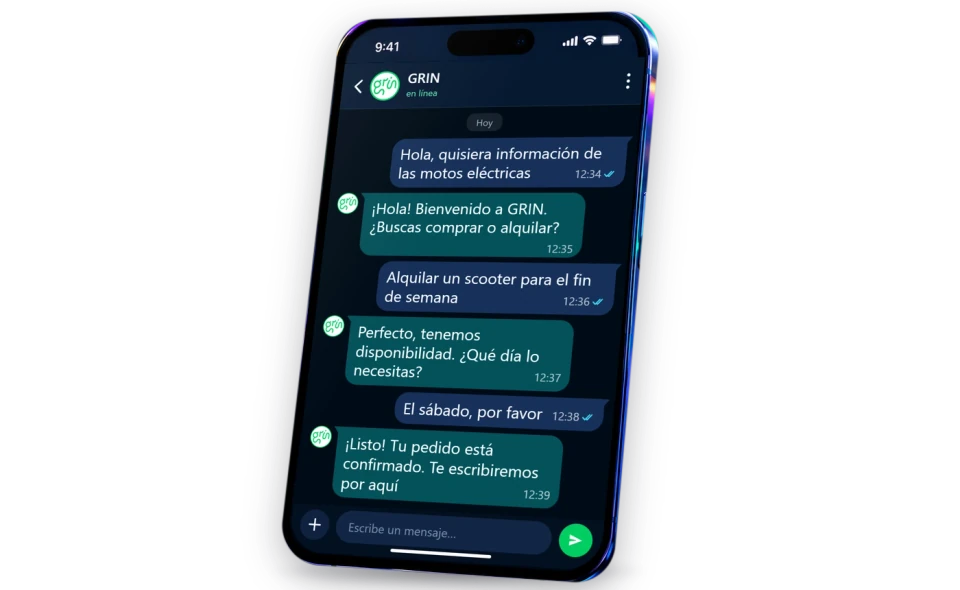
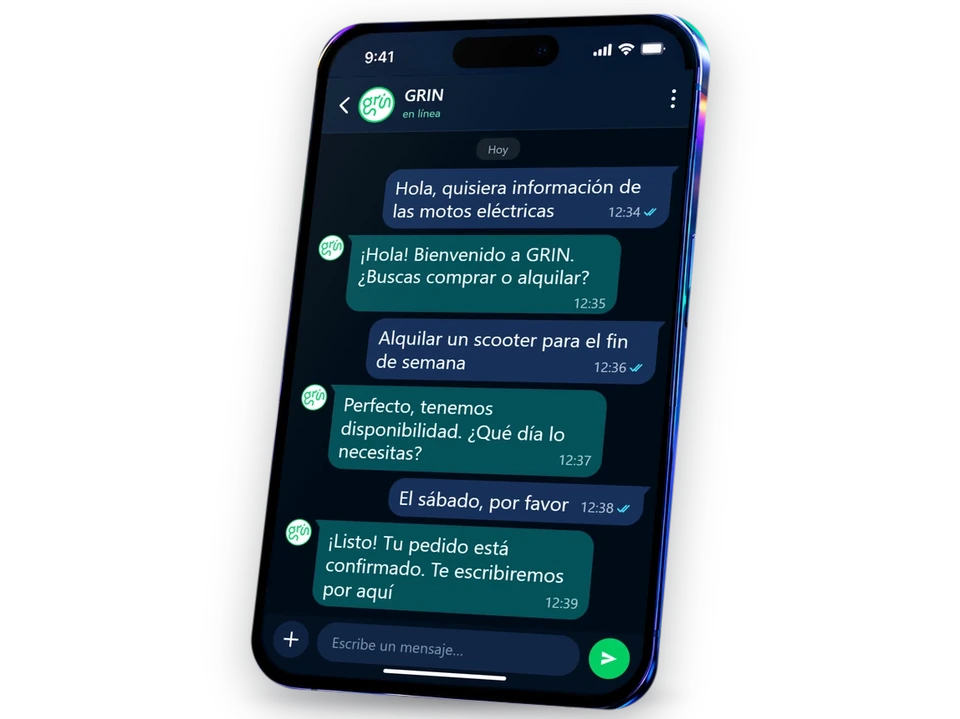
mejoras diseño y seccion de comentarios

diff --git a/src/app/features/cases/case-studies/cases.data.ts b/src/app/features/cases/case-studies/cases.data.ts
@@ -69,17 +69,17 @@ export const CASES: WorkflowCase[] = [
     cutout: {
       phone: '/cases/cutout/grin-phone.webp',
       alt: 'Conversación de WhatsApp con respuestas automáticas y un pedido confirmado en GRIN',
-      width: 1400,
+      width: 1148,
       height: 860,
       cards: [
-        { x: 20, y: 90, w: 340, h: 140, icon: 'lucideMessageCircle', label: 'Mensaje recibido' },
-        { x: 1020, y: 192, w: 340, h: 140, icon: 'lucideFileText', label: 'Pedido registrado' },
-        { x: 1020, y: 472, w: 340, h: 140, icon: 'lucideTrendingUp', label: 'Seguimiento activo' },
+        { x: 2, y: 103, w: 275, h: 115, icon: 'lucideMessageCircle', label: 'Mensaje recibido' },
+        { x: 871, y: 205, w: 275, h: 115, icon: 'lucideFileText', label: 'Pedido registrado' },
+        { x: 871, y: 485, w: 275, h: 115, icon: 'lucideTrendingUp', label: 'Seguimiento activo' },
       ],
       lines: [
-        { from: [360, 160], c1: [415, 160], c2: [430, 215], to: [480, 222] },
-        { from: [1020, 262], c1: [990, 262], c2: [975, 260], to: [942, 256] },
-        { from: [1020, 542], c1: [980, 542], c2: [960, 556], to: [918, 558] },
+        { from: [275, 160], c1: [289, 160], c2: [319, 215], to: [369, 222] },
+        { from: [873, 262], c1: [859, 262], c2: [864, 260], to: [831, 256] },
+        { from: [873, 542], c1: [859, 542], c2: [849, 556], to: [807, 558] },
       ],
     },
     resultAlt: 'Conversación de WhatsApp con respuestas automáticas y un pedido confirmado en GRIN',
@@ -113,17 +113,17 @@ export const CASES: WorkflowCase[] = [
     cutout: {
       phone: '/cases/cutout/opcion-phone.webp',
       alt: 'Conversación de WhatsApp con una cotización de fondo colectivo y el cálculo de la cuota en OPCIÓN',
-      width: 1400,
+      width: 1148,
       height: 860,
       cards: [
-        { x: 20, y: 90, w: 340, h: 140, icon: 'lucideMessageCircle', label: 'Mensaje recibido' },
-        { x: 1020, y: 192, w: 340, h: 140, icon: 'lucideFileText', label: 'Cotización enviada' },
-        { x: 1020, y: 472, w: 340, h: 140, icon: 'lucideUser', label: 'Cliente registrado' },
+        { x: 2, y: 103, w: 275, h: 115, icon: 'lucideMessageCircle', label: 'Mensaje recibido' },
+        { x: 871, y: 205, w: 275, h: 115, icon: 'lucideFileText', label: 'Cotización enviada' },
+        { x: 871, y: 485, w: 275, h: 115, icon: 'lucideUser', label: 'Cliente registrado' },
       ],
       lines: [
-        { from: [360, 160], c1: [415, 160], c2: [443, 215], to: [493, 222] },
-        { from: [1020, 262], c1: [990, 262], c2: [967, 260], to: [934, 256] },
-        { from: [1020, 542], c1: [980, 542], c2: [954, 556], to: [912, 558] },
+        { from: [275, 160], c1: [289, 160], c2: [329, 215], to: [379, 222] },
+        { from: [873, 262], c1: [859, 262], c2: [853, 260], to: [820, 256] },
+        { from: [873, 542], c1: [859, 542], c2: [840, 556], to: [798, 558] },
       ],
     },
     about: 'Fondos colectivos para inmuebles, vehículos y equipos',
@@ -155,17 +155,17 @@ export const CASES: WorkflowCase[] = [
     cutout: {
       phone: '/cases/cutout/tis-phone.webp',
       alt: 'Conversación de WhatsApp que califica a un prospecto y agenda una clase de prueba en TIS',
-      width: 1400,
+      width: 1148,
       height: 860,
       cards: [
-        { x: 20, y: 90, w: 340, h: 140, icon: 'lucideMessageCircle', label: 'Mensaje recibido' },
-        { x: 1020, y: 192, w: 340, h: 140, icon: 'lucideCalendarCheck', label: 'Clase agendada' },
-        { x: 1020, y: 472, w: 340, h: 140, icon: 'lucideTrendingUp', label: 'Seguimiento activo' },
+        { x: 2, y: 103, w: 275, h: 115, icon: 'lucideMessageCircle', label: 'Mensaje recibido' },
+        { x: 871, y: 205, w: 275, h: 115, icon: 'lucideCalendarCheck', label: 'Clase agendada' },
+        { x: 871, y: 485, w: 275, h: 115, icon: 'lucideTrendingUp', label: 'Seguimiento activo' },
       ],
       lines: [
-        { from: [360, 160], c1: [415, 160], c2: [447, 215], to: [497, 222] },
-        { from: [1020, 262], c1: [990, 262], c2: [964, 260], to: [931, 256] },
-        { from: [1020, 542], c1: [980, 542], c2: [951, 556], to: [909, 558] },
+        { from: [275, 160], c1: [289, 160], c2: [336, 215], to: [386, 222] },
+        { from: [873, 262], c1: [859, 262], c2: [853, 260], to: [820, 256] },
+        { from: [873, 542], c1: [859, 542], c2: [840, 556], to: [798, 558] },
       ],
     },
     about: 'Escuela de taekwondo en Lima',
@@ -197,17 +197,17 @@ export const CASES: WorkflowCase[] = [
     cutout: {
       phone: '/cases/cutout/peruviansecom-phone.webp',
       alt: 'Conversación de WhatsApp con el resumen y la confirmación de un pedido en PeruviansEcom',
-      width: 1400,
+      width: 1148,
       height: 860,
       cards: [
-        { x: 20, y: 90, w: 340, h: 140, icon: 'lucideMessageCircle', label: 'Mensaje recibido' },
-        { x: 1020, y: 192, w: 340, h: 140, icon: 'lucideFileText', label: 'Pedido registrado' },
-        { x: 1020, y: 472, w: 340, h: 140, icon: 'lucideTruck', label: 'Seguimiento de envío' },
+        { x: 2, y: 103, w: 275, h: 115, icon: 'lucideMessageCircle', label: 'Mensaje recibido' },
+        { x: 871, y: 205, w: 275, h: 115, icon: 'lucideFileText', label: 'Pedido registrado' },
+        { x: 871, y: 485, w: 275, h: 115, icon: 'lucideTruck', label: 'Seguimiento de envío' },
       ],
       lines: [
-        { from: [360, 160], c1: [415, 160], c2: [444, 215], to: [494, 222] },
-        { from: [1020, 262], c1: [990, 262], c2: [968, 260], to: [935, 256] },
-        { from: [1020, 542], c1: [980, 542], c2: [950, 556], to: [908, 558] },
+        { from: [275, 160], c1: [289, 160], c2: [329, 215], to: [379, 222] },
+        { from: [873, 262], c1: [859, 262], c2: [853, 260], to: [820, 256] },
+        { from: [873, 542], c1: [859, 542], c2: [835, 556], to: [793, 558] },
       ],
     },
     about: 'Ecommerce de productos naturales',

diff --git a/src/app/features/testimonials/testimonials.component.html b/src/app/features/testimonials/testimonials.component.html
@@ -1,0 +1,67 @@
+@if (items.length) {
+<section class="relative overflow-hidden bg-white py-24 lg:py-32">
+
+    <div class="pointer-events-none absolute -left-40 top-1/4 h-[380px] w-[380px] rounded-full bg-[#6C5CE7]/10 blur-[120px]"></div>
+    <div class="pointer-events-none absolute -right-40 bottom-0 h-[380px] w-[380px] rounded-full bg-[#00F2FE]/10 blur-[120px]"></div>
+
+    <div class="relative mx-auto px-6 lg:max-w-[80vw] lg:px-8">
+
+        <div appReveal revealStagger class="mx-auto max-w-3xl text-center">
+            <span class="inline-flex items-center gap-2 text-xs font-semibold uppercase tracking-[0.2em] text-[#5b49d6]">
+                <span class="h-1.5 w-1.5 rounded-full bg-[#6C5CE7]"></span>
+                Testimonios
+            </span>
+            <h2 class="mt-5 text-3xl font-bold leading-[1.1] tracking-tight text-[#080911] md:text-5xl">
+                Lo que dicen quienes
+                <span class="bg-gradient-to-r from-[#6C5CE7] to-[#00b8c4] bg-clip-text text-transparent">ya automatizan</span>
+            </h2>
+        </div>
+
+        <!-- Tarjetas: se centran con cualquier cantidad (1, 2, 3 o más) -->
+        <ul appReveal revealStagger class="mt-10 flex flex-wrap justify-center gap-6">
+            @for (t of items; track t.name; let i = $index) {
+            <li class="flex w-full md:w-[calc(50%-12px)] lg:w-[calc(33.333%-16px)]">
+                <figure class="relative flex w-full flex-col overflow-hidden rounded-3xl border border-black/10 bg-white p-7 shadow-[0_10px_30px_rgba(8,9,17,0.05)] transition duration-300 hover:-translate-y-1 hover:border-[#6C5CE7]/30 hover:shadow-[0_25px_60px_rgba(108,92,231,0.15)]">
+
+                    <div class="flex items-center gap-4">
+                        @if (t.photo) {
+                        <span class="h-20 w-20 shrink-0 overflow-hidden rounded-full bg-gradient-to-br from-[#6C5CE7]/30 via-[#6C8CFF]/25 to-[#00F2FE]/40 shadow-md ring-2 ring-white">
+                            <img [src]="t.photo" [alt]="'Foto de ' + t.name" width="160" height="160" loading="lazy" decoding="async"
+                                class="h-full w-full object-cover" />
+                        </span>
+                        } @else {
+                        <span aria-hidden="true"
+                            class="flex h-20 w-20 shrink-0 items-center justify-center rounded-full text-xl font-bold text-white shadow-md"
+                            [class]="i % 2 === 0 ? 'bg-gradient-to-br from-[#6C5CE7] to-[#6C8CFF]' : 'bg-gradient-to-br from-[#6C8CFF] to-[#00b8c4]'">{{ initials(t.name) }}</span>
+                        }
+                        <div class="min-w-0">
+                            <p class="font-bold text-[#080911]">{{ t.name }}</p>
+                            <p class="text-sm leading-5 text-black/60">{{ t.role }} · {{ t.business }}</p>
+                            @if (t.city) {
+                            <p class="text-sm leading-5 text-black/45">{{ t.city }}</p>
+                            }
+                        </div>
+                    </div>
+
+                    @if (t.rating; as rating) {
+                    <span class="mt-5 flex gap-0.5" role="img" [attr.aria-label]="rating + ' de 5 estrellas'">
+                        @for (n of starSlots; track n) {
+                        <svg viewBox="0 0 24 24" class="h-5 w-5" [class]="n <= rating ? 'fill-[#F5A623] text-[#F5A623]' : 'fill-transparent text-black/20'" stroke="currentColor" stroke-width="1.6" stroke-linejoin="round" aria-hidden="true">
+                            <path d="M12 2.8l2.9 5.9 6.5.9-4.7 4.6 1.1 6.5L12 17.6l-5.8 3.1 1.1-6.5L2.6 9.6l6.5-.9L12 2.8z" />
+                        </svg>
+                        }
+                    </span>
+                    }
+
+                    <blockquote class="mt-4 flex-1 text-base leading-7 text-black/75">
+                        {{ t.quote }}
+                    </blockquote>
+
+                </figure>
+            </li>
+            }
+        </ul>
+
+    </div>
+</section>
+}

diff --git a/src/app/features/testimonials/testimonials.data.ts b/src/app/features/testimonials/testimonials.data.ts
@@ -1,0 +1,88 @@
+/**
+ * Comentarios de clientes que ya contrataron el servicio. Los muestra la sección «Testimonios» del inicio
+ * (features/testimonials). Mientras la lista esté vacía, la sección NO se muestra.
+ *
+ * Reglas:
+ *  - Solo comentarios REALES, con el permiso de la persona para publicarlos con su nombre (un mensaje de WhatsApp sirve).
+ *    La frase va tal como la escribió; no se retoca el sentido.
+ *  - Fotos: la foto real de esa persona o de su negocio, que se guarda en public/testimonios/ (cuadrada, unos 400 × 400 px,
+ *    en .webp y de menos de 40 KB) y aquí se indica como '/testimonios/nombre.webp'. Sin foto, se muestra un círculo con
+ *    sus iniciales; no hace falta cambiar nada más cuando llegue la foto.
+ *  - No usar imágenes generadas con IA ni de personas que no sean quien firma el comentario.
+ *
+ * Para añadir un comentario, copiar el ejemplo de abajo (comentado) dentro de TESTIMONIALS.
+ */
+export interface Testimonial {
+  /** Nombre como quiere que aparezca (puede ser «Rosa M.»). */
+  name: string;
+  /** Su cargo o a qué se dedica, por ejemplo «Dueña» o «Administrador». */
+  role: string;
+  /** Nombre o tipo de negocio, por ejemplo «Tienda de productos naturales». */
+  business: string;
+  /** Ciudad (opcional). */
+  city?: string;
+  /** El comentario, en 2 o 3 líneas. */
+  quote: string;
+  /** Foto (opcional): '/testimonios/<archivo>.webp'. */
+  photo?: string;
+  /** Estrellas de 1 a 5 (opcional): solo si el cliente dio esa valoración; si no, no se muestran. */
+  rating?: 1 | 2 | 3 | 4 | 5;
+}
+
+export const TESTIMONIALS: Testimonial[] = [
+  {
+    name: 'Diego S.',
+    role: 'CEO',
+    business: 'Agencia Inmobiliaria',
+    city: 'Lima',
+    quote: 'Recibíamos decenas de preguntas por departamentos a cualquier hora. Ahora el sistema califica a los clientes interesados y nos los pasa listos para agendar visita.',
+    rating: 5,
+    photo: '/testimonios/Retrato cálido en espacio de trabajo (sin fondo).webp'
+  },
+  {
+    name: 'Valeria M.',
+    role: 'Directora',
+    business: 'Centro Odontológico',
+    city: 'Arequipa',
+    quote: 'Se acabaron los huecos en la agenda por pacientes que no confirmaban. Los recordatorios automáticos por WhatsApp redujeron el ausentismo casi a cero.',
+    rating: 5,
+    photo: '/testimonios/Retrato profesional en oficina moderna (sin fondo).webp'
+  },
+  {
+    name: 'Gonzalo B.',
+    role: 'Fundador',
+    business: 'Marca de Calzado Urbano',
+    city: 'Trujillo',
+    quote: 'El asistente en WhatsApp responde catálogo, tallas y precios al instante. Las ventas fuera de nuestro horario de oficina aumentaron un 30%.',
+    rating: 5,
+    photo: '/testimonios/Retrato en coworking construimos juntos (sin fondo).webp'  
+  },
+  {
+    name: 'Patricia H.',
+    role: 'Gerente',
+    business: 'Instituto de Capacitación',
+    city: 'Chiclayo',
+    quote: 'Antes perdíamos prospectos de cursos porque tardábamos en responder. Hoy el flujo captura sus datos y los deriva directo a los asesores de ventas.',
+    rating: 4,
+    photo: '/testimonios/Retrato profesional en oficina luminosa (sin fondo).webp' 
+  },
+  {
+    name: 'Renato K.',
+    role: 'Propietario',
+    business: 'Taller de Detailing Automotriz',
+    city: 'Lima',
+    quote: 'Nos ayudaron a estructurar la atención por chat desde cero. La inversión se pagó sola en el primer mes solo por el tiempo que ahorramos.',
+    rating: 5,
+    photo: '/testimonios/Retrato corporativo en oficina moderna (sin fondo).webp' 
+  },
+  {
+    name: 'Sofía T.',
+    role: 'Administradora',
+    business: 'Estudio Contable',
+    city: 'Cusco',
+    quote: 'Pensé que configurar todo sería complicado, pero el equipo nos dejó todo funcionando y listo para usar. El soporte post-implementación es de diez.',
+    rating: 5,
+    photo: '/testimonios/Retrato profesional en oficina acogedora (sin fondo).webp'
+  },
+  // Para añadir otro, copiar el ejemplo de la cabecera de este archivo.
+];

diff --git a/src/app/features/testimonials/testimonials.component.ts b/src/app/features/testimonials/testimonials.component.ts
@@ -1,0 +1,26 @@
+import { Component } from '@angular/core';
+import { RevealDirective } from '../../core/reveal.directive';
+import { TESTIMONIALS } from './testimonials.data';
+
+/** Sección de comentarios de clientes (inicio). No se muestra mientras testimonials.data.ts esté vacío. */
+@Component({
+  selector: 'app-testimonials',
+  imports: [RevealDirective],
+  templateUrl: './testimonials.component.html',
+})
+export class TestimonialsComponent {
+  public readonly items = TESTIMONIALS;
+
+  /** Para dibujar las 5 estrellas (rellenas hasta la valoración). */
+  protected readonly starSlots = [1, 2, 3, 4, 5];
+
+  /** Iniciales para el círculo cuando no hay foto: primera letra de las dos primeras palabras del nombre. */
+  protected initials(name: string): string {
+    return name
+      .trim()
+      .split(/\s+/)
+      .slice(0, 2)
+      .map((word) => word.charAt(0).toUpperCase())
+      .join('');
+  }
+}

diff --git a/src/app/features/cases/case-studies/case-scene/case-scene.component.html b/src/app/features/cases/case-studies/case-scene/case-scene.component.html
@@ -1,7 +1,7 @@
 @let s = scene();
 <div class="scene" role="img" [attr.aria-label]="s.alt" [style.aspect-ratio]="s.width + ' / ' + s.height">
 
-    <img data-s="phone" class="phone" [src]="small(s.phone)" [attr.srcset]="small(s.phone) + ' 960w, ' + s.phone + ' 1400w'" sizes="(min-width: 1024px) 800px, 92vw" [attr.width]="s.width" [attr.height]="s.height" alt="" loading="lazy" decoding="async" />
+    <img data-s="phone" class="phone" [src]="small(s.phone)" [attr.srcset]="small(s.phone) + ' 960w, ' + s.phone + ' ' + s.width + 'w'" sizes="(min-width: 1024px) 800px, 92vw" [attr.width]="s.width" [attr.height]="s.height" alt="" loading="lazy" decoding="async" />
 
     <svg class="lines" [attr.viewBox]="'0 0 ' + s.width + ' ' + s.height" aria-hidden="true">
         @for (line of s.lines; track $index; let i = $index) {

diff --git a/src/app/features/home/home.component.ts b/src/app/features/home/home.component.ts
@@ -17,6 +17,7 @@ import { NetworkBgComponent } from '../../shared/network-bg/network-bg.component
 import { POSTS, formatPostDate, postImage } from '../blog/blog.data';
 import { PLANS } from '../plans/plans.data';
 import { PlanCardComponent } from '../plans/plan-card/plan-card.component';
+import { TestimonialsComponent } from '../testimonials/testimonials.component';
 import { MeetingDialogService } from '../../shared/components/services/meeting-dialog.service';
 import { SeoService } from '../../core/seo.service';
 
@@ -31,6 +32,7 @@ import { SeoService } from '../../core/seo.service';
     HlmInputImports,
     WorkflowsComponent,
     PlanCardComponent,
+    TestimonialsComponent,
     NetworkBgComponent,
     RevealDirective,
     DrawPathsDirective,

diff --git a/src/app/features/cases/case-studies/case-studies.component.html b/src/app/features/cases/case-studies/case-studies.component.html
@@ -32,7 +32,7 @@
 
         <div class="space-y-12 lg:space-y-16">
             @for (item of cases; track item.name; let i = $index) {
-            <article class="grid items-center gap-8 lg:gap-14" [class]="i % 2 === 1 ? 'lg:grid-cols-[1fr_1.25fr]' : 'lg:grid-cols-[1.25fr_1fr]'">
+            <article class="grid items-center gap-8 lg:gap-14" [class]="i % 2 === 1 ? 'lg:grid-cols-[1fr_1.1fr]' : 'lg:grid-cols-[1.1fr_1fr]'">
 
                 @if (item.cutout; as cutout) {
                 <div [class]="i % 2 === 1 ? 'order-2 lg:order-2' : 'order-2 lg:order-1'">

diff --git a/src/app/features/home/home.component.html b/src/app/features/home/home.component.html
@@ -3619,6 +3619,8 @@
 
 <app-workflows />
 
+<app-testimonials />
+
 <section class="relative overflow-hidden bg-[#f7f7fa] py-28 lg:py-36">
 
     <!-- DECORACIÓN -->
